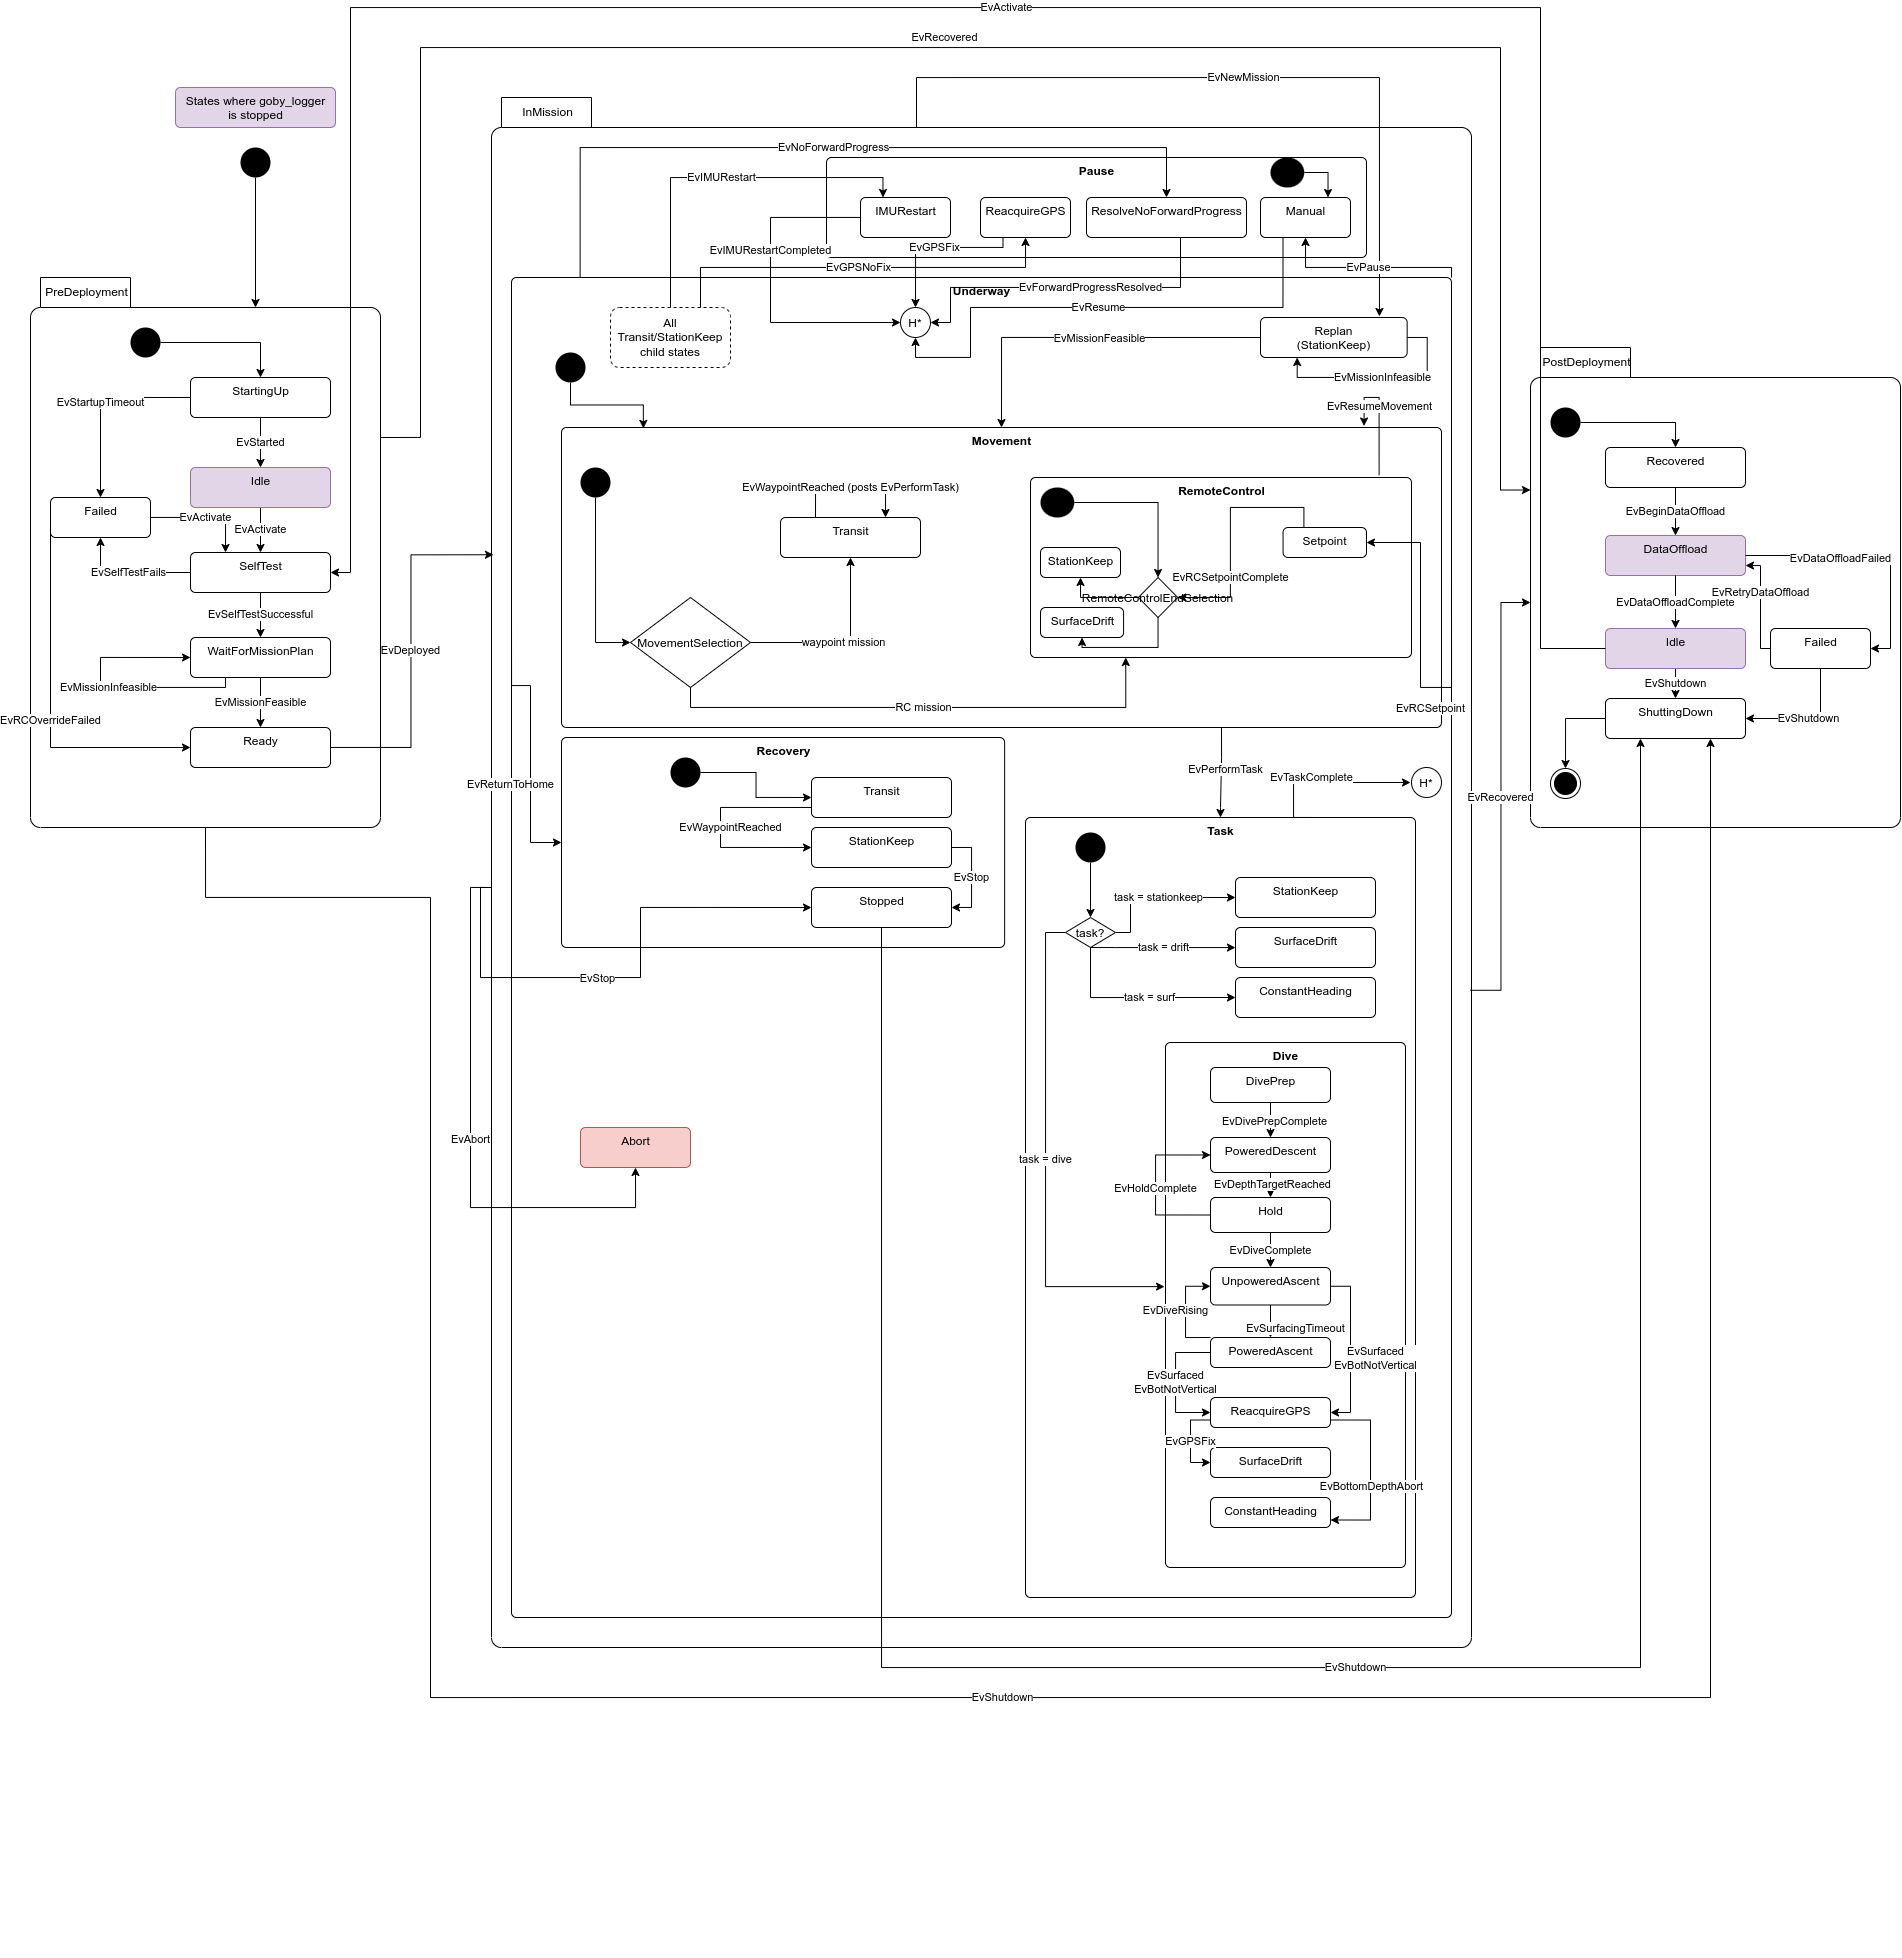
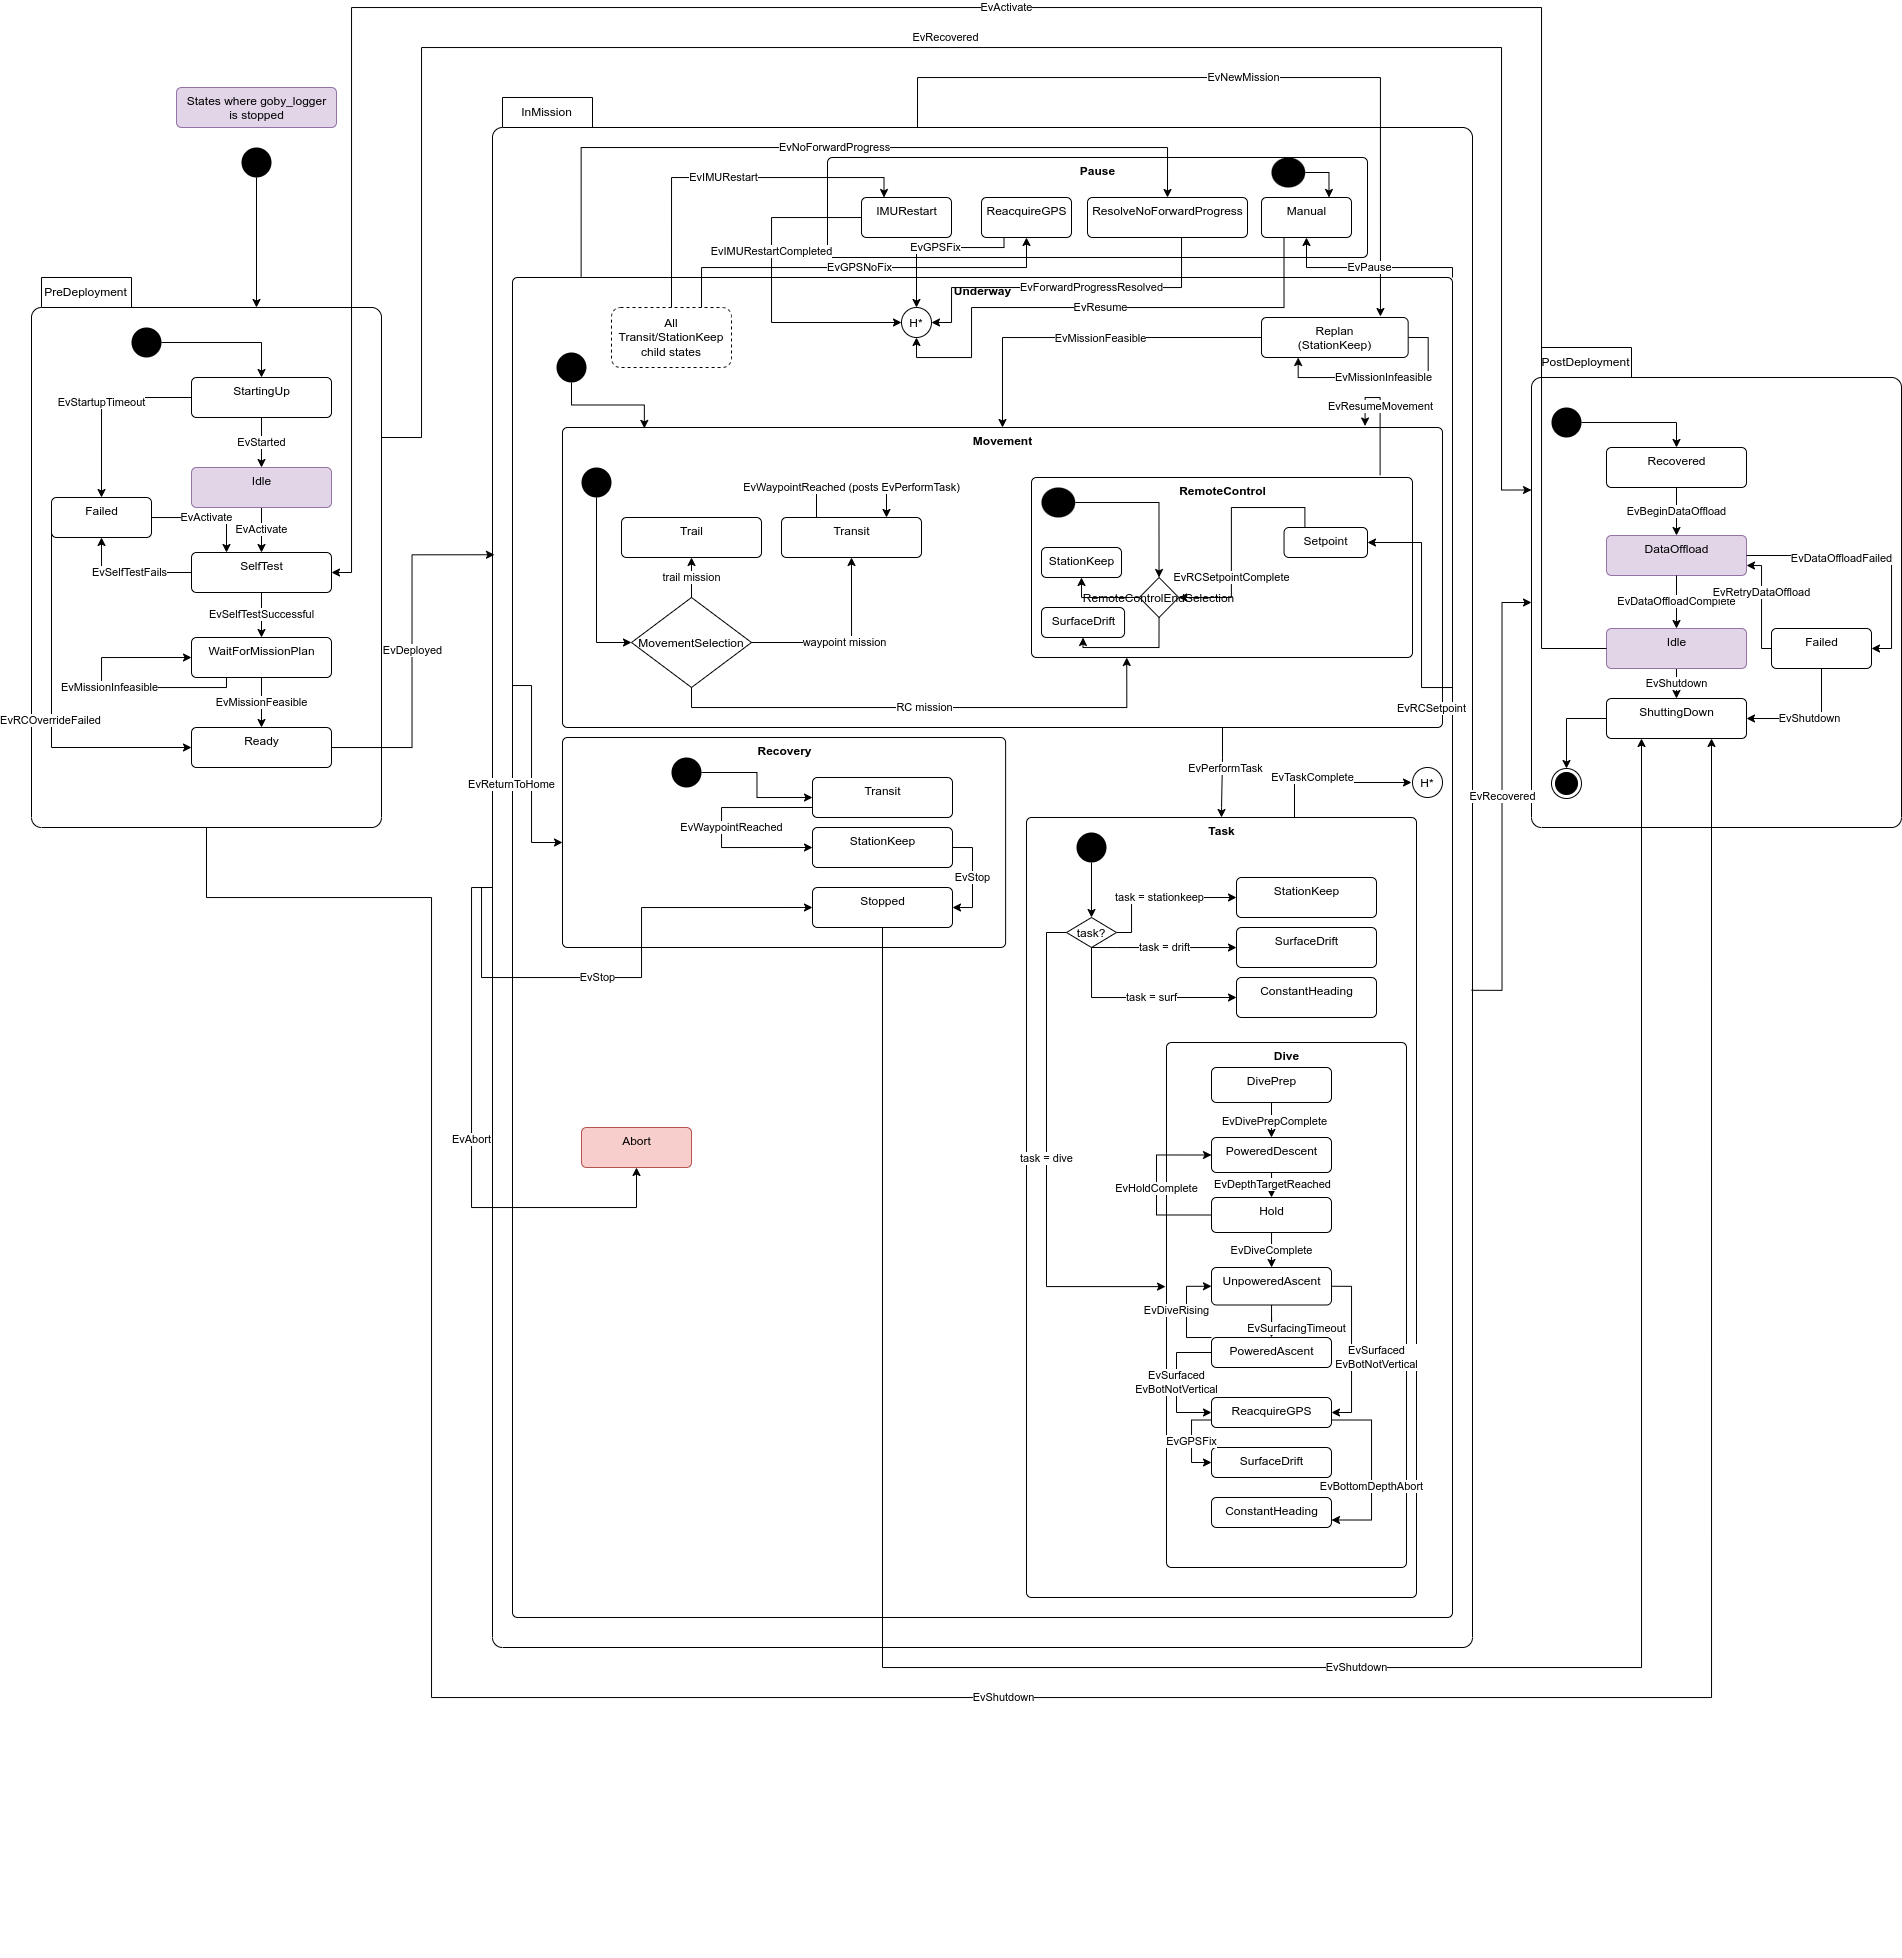
Fix merge issues

diff --git a/src/web/shared/JAIAProtobuf.ts b/src/web/shared/JAIAProtobuf.ts
@@ -576,10 +576,7 @@ export enum MissionState {
     IN_MISSION__UNDERWAY__MOVEMENT__REMOTE_CONTROL__SETPOINT = "IN_MISSION__UNDERWAY__MOVEMENT__REMOTE_CONTROL__SETPOINT",
     IN_MISSION__UNDERWAY__MOVEMENT__REMOTE_CONTROL__STATION_KEEP = "IN_MISSION__UNDERWAY__MOVEMENT__REMOTE_CONTROL__STATION_KEEP",
     IN_MISSION__UNDERWAY__MOVEMENT__REMOTE_CONTROL__SURFACE_DRIFT = "IN_MISSION__UNDERWAY__MOVEMENT__REMOTE_CONTROL__SURFACE_DRIFT",
-==== BASE ====
-    IN_MISSION__UNDERWAY__MOVEMENT__REMOTE_CONTROL__REACQUIRE_GPS = "IN_MISSION__UNDERWAY__MOVEMENT__REMOTE_CONTROL__REACQUIRE_GPS",
-    IN_MISSION__UNDERWAY__MOVEMENT__IMU_RESTART = "IN_MISSION__UNDERWAY__MOVEMENT__IMU_RESTART",
-==== BASE ====
+    IN_MISSION__UNDERWAY__MOVEMENT__TRAIL = "IN_MISSION__UNDERWAY__MOVEMENT__TRAIL",
     IN_MISSION__UNDERWAY__TASK__STATION_KEEP = "IN_MISSION__UNDERWAY__TASK__STATION_KEEP",
     IN_MISSION__UNDERWAY__TASK__SURFACE_DRIFT = "IN_MISSION__UNDERWAY__TASK__SURFACE_DRIFT",
     IN_MISSION__UNDERWAY__TASK__REACQUIRE_GPS = "IN_MISSION__UNDERWAY__TASK__REACQUIRE_GPS",
@@ -696,7 +693,6 @@ export interface Recovery {
 }
 
 export interface MissionPlan {
-==== BASE ====
     start?: MissionStart
     movement?: MovementType
     goal?: Goal[]
@@ -705,7 +701,6 @@ export interface MissionPlan {
     fragment_index?: number
     expected_fragments?: number
     repeats?: number
-==== BASE ====
 }
 
 export interface TransitUpdate {

diff --git a/src/bin/fusion/fusion.cpp b/src/bin/fusion/fusion.cpp
@@ -212,8 +212,7 @@ jaiabot::apps::Fusion::Fusion() : ApplicationBase(5 * si::hertz)
     bot_status_period_ms_ = cfg().bot_status_period_ms();
 
     interprocess().subscribe<goby::middleware::groups::gpsd::att>(
-        [this](const goby::middleware::protobuf::gpsd::Attitude& att)
-        {
+        [this](const goby::middleware::protobuf::gpsd::Attitude& att) {
             glog.is_debug1() && glog << "Received Attitude update: " << att.ShortDebugString()
                                      << std::endl;
 
@@ -265,11 +264,14 @@ jaiabot::apps::Fusion::Fusion() : ApplicationBase(5 * si::hertz)
             }
         });
 
-    interprocess().subscribe<groups::imu>(
-        [this](const jaiabot::protobuf::IMUData& imu_data)
+    interprocess().subscribe<groups::imu>([this](const jaiabot::protobuf::IMUData& imu_data) {
+        glog.is_debug1() && glog << "Received Attitude update from IMU: "
+                                 << imu_data.ShortDebugString() << std::endl;
+
+        if (imu_data.has_euler_angles())
         {
-            glog.is_debug1() && glog << "Received Attitude update from IMU: "
-                                     << imu_data.ShortDebugString() << std::endl;
+            auto euler_angles = imu_data.euler_angles();
+            auto now = goby::time::SteadyClock::now();
 
             if (euler_angles.has_heading())
             {
@@ -325,13 +327,9 @@ jaiabot::apps::Fusion::Fusion() : ApplicationBase(5 * si::hertz)
         }
     });
     interprocess().subscribe<goby::middleware::groups::gpsd::tpv>(
-        [this](const goby::middleware::protobuf::gpsd::TimePositionVelocity& tpv)
-        {
+        [this](const goby::middleware::protobuf::gpsd::TimePositionVelocity& tpv) {
             glog.is_debug1() && glog << "Received TimePositionVelocity update: "
                                      << tpv.ShortDebugString() << std::endl;
-
-            if (tpv.device() != cfg().bot_gpsd_device())
-                return; // ignore any devices that don't match our configured device for now, later we may process these as contacts
 
             auto now = goby::time::SteadyClock::now();
 
@@ -413,8 +411,7 @@ jaiabot::apps::Fusion::Fusion() : ApplicationBase(5 * si::hertz)
         });
 
     interprocess().subscribe<jaiabot::groups::pressure_temperature>(
-        [this](const jaiabot::protobuf::PressureTemperatureData& pt)
-        {
+        [this](const jaiabot::protobuf::PressureTemperatureData& pt) {
             auto now = goby::time::SteadyClock::now();
 
             last_data_time_[DataType::PRESSURE] = now;
@@ -428,8 +425,7 @@ jaiabot::apps::Fusion::Fusion() : ApplicationBase(5 * si::hertz)
 
     // subscribe for pressure adjusted measurements (pressure -> depth)
     interprocess().subscribe<jaiabot::groups::pressure_adjusted>(
-        [this](const jaiabot::protobuf::PressureAdjustedData& pa)
-        {
+        [this](const jaiabot::protobuf::PressureAdjustedData& pa) {
             if (pa.has_calculated_depth())
             {
                 latest_node_status_.mutable_global_fix()->set_depth_with_units(
@@ -453,8 +449,7 @@ jaiabot::apps::Fusion::Fusion() : ApplicationBase(5 * si::hertz)
         });
 
     interprocess().subscribe<jaiabot::groups::arduino_to_pi>(
-        [this](const jaiabot::protobuf::ArduinoResponse& arduino_response)
-        {
+        [this](const jaiabot::protobuf::ArduinoResponse& arduino_response) {
             if (arduino_response.has_thermocouple_temperature_c())
             {
                 latest_bot_status_.set_thermocouple_temperature(
@@ -489,8 +484,7 @@ jaiabot::apps::Fusion::Fusion() : ApplicationBase(5 * si::hertz)
         });
 
     interprocess().subscribe<jaiabot::groups::mission_report>(
-        [this](const protobuf::MissionReport& report)
-        {
+        [this](const protobuf::MissionReport& report) {
             latest_bot_status_.set_mission_state(report.state());
 
             if (report.has_active_goal())
@@ -518,23 +512,20 @@ jaiabot::apps::Fusion::Fusion() : ApplicationBase(5 * si::hertz)
         });
 
     interprocess().subscribe<jaiabot::groups::salinity>(
-        [this](const jaiabot::protobuf::SalinityData& salinityData)
-        {
+        [this](const jaiabot::protobuf::SalinityData& salinityData) {
             glog.is_debug1() && glog << "=> " << salinityData.ShortDebugString() << std::endl;
             latest_bot_status_.set_salinity(salinityData.salinity());
         });
 
     interprocess().subscribe<goby::middleware::groups::health_report>(
-        [this](const goby::middleware::protobuf::VehicleHealth& vehicle_health)
-        {
+        [this](const goby::middleware::protobuf::VehicleHealth& vehicle_health) {
             last_health_report_time_ = goby::time::SteadyClock::now();
             jaiabot::health::populate_status_from_health(latest_bot_status_, vehicle_health);
         });
 
     // subscribe for commands, to set last_command_time
     interprocess().subscribe<jaiabot::groups::engineering_command>(
-        [this](const jaiabot::protobuf::Engineering& command)
-        {
+        [this](const jaiabot::protobuf::Engineering& command) {
             glog.is_debug1() && glog << "=> " << command.ShortDebugString() << std::endl;
 
             if (command.has_bot_status_rate())
@@ -596,8 +587,7 @@ jaiabot::apps::Fusion::Fusion() : ApplicationBase(5 * si::hertz)
         });
 
     interprocess().subscribe<goby::middleware::groups::gpsd::sky>(
-        [this](const goby::middleware::protobuf::gpsd::SkyView& sky)
-        {
+        [this](const goby::middleware::protobuf::gpsd::SkyView& sky) {
             if (sky.has_hdop())
             {
                 latest_bot_status_.set_hdop(sky.hdop());
@@ -611,8 +601,8 @@ jaiabot::apps::Fusion::Fusion() : ApplicationBase(5 * si::hertz)
     // check for hub ID change and publish request for all intervehicle subscribers to (re)subscribe
     // as the new hub may not have our subscriptions
     interprocess().subscribe<goby::middleware::intervehicle::groups::modem_receive>(
-        [this](const goby::middleware::intervehicle::protobuf::ModemTransmissionWithLinkID& rx_msg)
-        {
+        [this](
+            const goby::middleware::intervehicle::protobuf::ModemTransmissionWithLinkID& rx_msg) {
             if (rx_msg.data().HasExtension(jaiabot::protobuf::transmission))
             {
                 const auto& hub_info =
@@ -630,8 +620,7 @@ jaiabot::apps::Fusion::Fusion() : ApplicationBase(5 * si::hertz)
     // subscribe for commands from mission manager
     interprocess()
         .subscribe<jaiabot::groups::desired_setpoints, jaiabot::protobuf::DesiredSetpoints>(
-            [this](const jaiabot::protobuf::DesiredSetpoints& command)
-            {
+            [this](const jaiabot::protobuf::DesiredSetpoints& command) {
                 switch (command.type())
                 {
                     case jaiabot::protobuf::SETPOINT_STOP: bot_desired_speed_ = 0; break;
@@ -649,8 +638,7 @@ jaiabot::apps::Fusion::Fusion() : ApplicationBase(5 * si::hertz)
             });
 
     interprocess().subscribe<jaiabot::groups::linux_hardware_status>(
-        [this](const jaiabot::protobuf::LinuxHardwareStatus& hardware_status)
-        {
+        [this](const jaiabot::protobuf::LinuxHardwareStatus& hardware_status) {
             if (hardware_status.has_wifi())
             {
                 if (hardware_status.wifi().is_connected())

diff --git a/src/bin/mission_manager/app.cpp b/src/bin/mission_manager/app.cpp
@@ -518,7 +518,8 @@ void jaiabot::apps::MissionManager::intervehicle_subscribe(
     latest_command_sub_cfg_.mutable_intervehicle()->add_publisher_id(hub_info.modem_id());
 
     auto hub_command_subscriber_group_func =
-        [](const protobuf::Command& command) -> goby::middleware::Group {
+        [](const protobuf::Command& command) -> goby::middleware::Group
+    {
         return goby::middleware::Group(
             jaiabot::intervehicle::hub_command_group(command.bot_id()).numeric());
     };
@@ -531,26 +532,23 @@ void jaiabot::apps::MissionManager::intervehicle_subscribe(
         {
             if (input_command.type() == protobuf::Command::MISSION_PLAN_FRAGMENT)
             {
-                if (input_command.type() == protobuf::Command::MISSION_PLAN_FRAGMENT)
+                protobuf::Command out_command;
+                bool command_valid = handle_command_fragment(input_command, out_command);
+                if (command_valid)
                 {
-                    protobuf::Command out_command;
-                    bool command_valid = handle_command_fragment(input_command, out_command);
-                    if (command_valid)
-                    {
-                        handle_command(out_command);
-                        // republish for logging purposes
-                        interprocess().publish<jaiabot::groups::hub_command>(out_command);
-                    }
-                }
-                else
-                {
-                    handle_command(input_command);
+                    handle_command(out_command);
                     // republish for logging purposes
-                    interprocess().publish<jaiabot::groups::hub_command>(input_command);
+                    interprocess().publish<jaiabot::groups::hub_command>(out_command);
                 }
-            },
-            *groups::hub_command_this_bot, command_subscriber);
-    }
+            }
+            else
+            {
+                handle_command(input_command);
+                // republish for logging purposes
+                interprocess().publish<jaiabot::groups::hub_command>(input_command);
+            }
+        },
+        *groups::hub_command_this_bot, command_subscriber);
 
     if (cfg().has_contact_update_sub_cfg())
     {

diff --git a/src/bin/mission_manager/machine.h b/src/bin/mission_manager/machine.h
@@ -1159,6 +1159,22 @@ struct Transit
                                   boost::mpl::front_inserter<Base::common_reactions>>::type;
 };
 
+struct Trail
+    : IvPSensorPauseCommon<Trail, Movement, protobuf::IN_MISSION__UNDERWAY__MOVEMENT__TRAIL>
+{
+    using Base =
+        IvPSensorPauseCommon<Trail, Movement, protobuf::IN_MISSION__UNDERWAY__MOVEMENT__TRAIL>;
+
+    Trail(typename StateBase::my_context c);
+    ~Trail();
+
+    using local_reactions = boost::mpl::list<>;
+
+    using reactions =
+        typename boost::mpl::copy<local_reactions,
+                                  boost::mpl::front_inserter<Base::common_reactions>>::type;
+};
+
 struct RemoteControl
     : boost::statechart::state<RemoteControl, Movement, remotecontrol::RemoteControlEndSelection>
 {

diff --git a/src/bin/mission_manager/machine.cpp b/src/bin/mission_manager/machine.cpp
@@ -239,7 +239,7 @@ jaiabot::statechart::inmission::underway::movement::Transit::~Transit()
 
 // Movement::Trail
 jaiabot::statechart::inmission::underway::movement::Trail::Trail(typename StateBase::my_context c)
-    : AcquiredGPSCommon<Trail, Movement, protobuf::IN_MISSION__UNDERWAY__MOVEMENT__TRAIL>(c)
+    : Base(c)
 {
     // next goal (after trailing) is recovery
     context<InMission>().set_goal_index_to_recovery();
